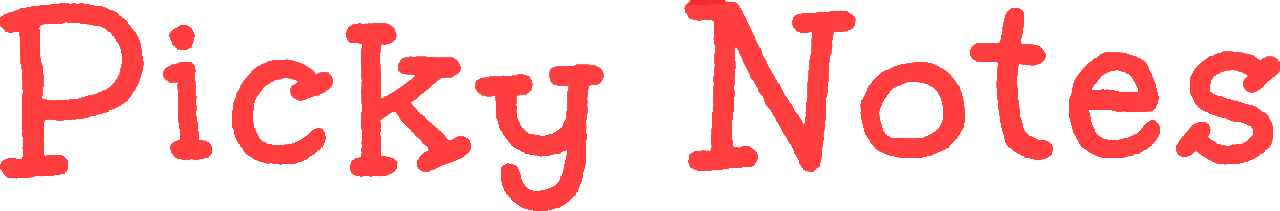
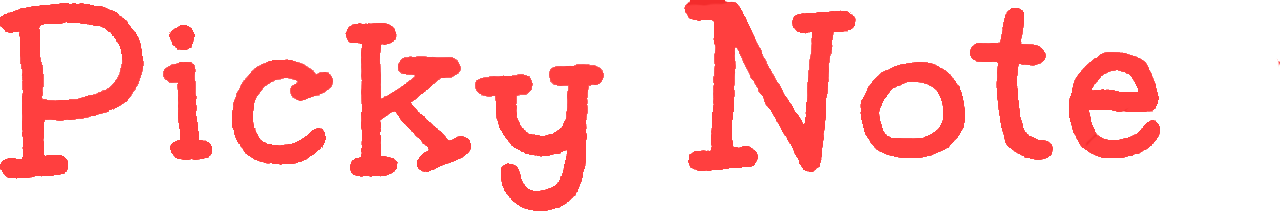
css done 1

Changed region(s): [[0.9062, 0.2275, 1.0, 0.7962]]

diff --git a/src/login/login.css b/src/login/login.css
@@ -111,14 +111,16 @@ h2{
     
 
   }
-  h3
+  #pick
   {
       margin-top: 30px;
       font-family: 'Dancing Script', cursive;
       font-weight: bold;
-      font-size: 60px;
+      font-size: 70px;
       color: rgb(231, 37, 37);
   }
+
+
   @media only screen and (max-width:500px)
   {
       #login
@@ -150,7 +152,7 @@ h2{
           background-size: cover;
       }
 
-      h3
+      #pick
   {
       margin-top: 30px;
       font-family: 'Fredericka the Great', cursive;

diff --git a/src/signup/signup.js b/src/signup/signup.js
@@ -105,7 +105,7 @@ class SignUpComponent extends React.Component
                 <div>
                 <div id='img'>
                 <img src={logo1} id='logo-1'></img>
-                <h3>Picky Notes </h3>
+                <h3 id='pick'>Picky Note </h3>
                 </div>
                 <div className='login'>
                     <h2>Sign Up!</h2>

diff --git a/src/login/login.js b/src/login/login.js
@@ -70,7 +70,7 @@ class LoginComponent extends React.Component
                 {/* <h1 id='nk'>Notes Keeper</h1> */}
                 <div id='img'>
                 <img src={logo1} id='logo-1'></img>
-                <h3 >Picky Notes</h3>
+                <h3 id='pick'>Picky Note</h3>
                 </div>
                 <div id='login'>
 

diff --git a/src/signup/signup.css b/src/signup/signup.css
@@ -197,7 +197,7 @@ h2{
         background-image: url('./ScreenShot_20200712182605.png');
         background-size: cover;
     }
-    h3
+    #pick
     {
         margin-top: 30px;
         font-family: 'Fredericka the Great', cursive;
